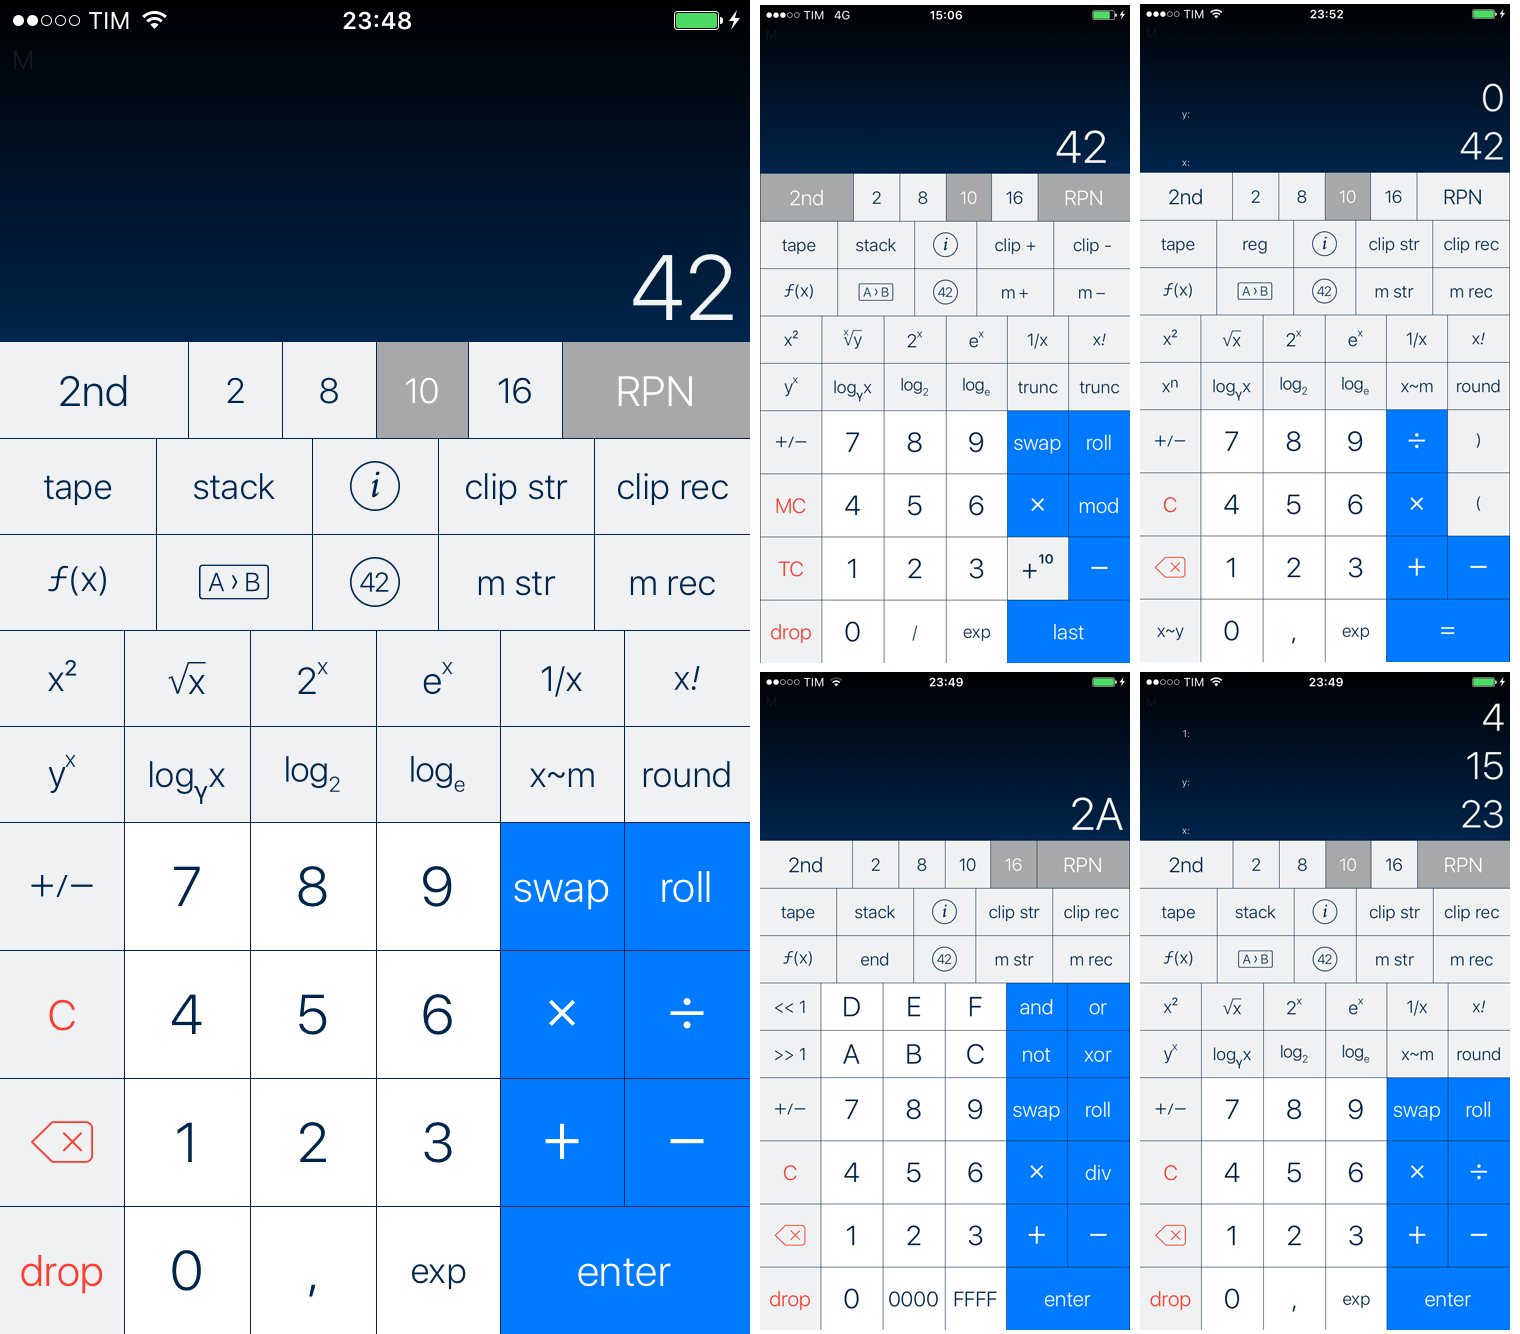
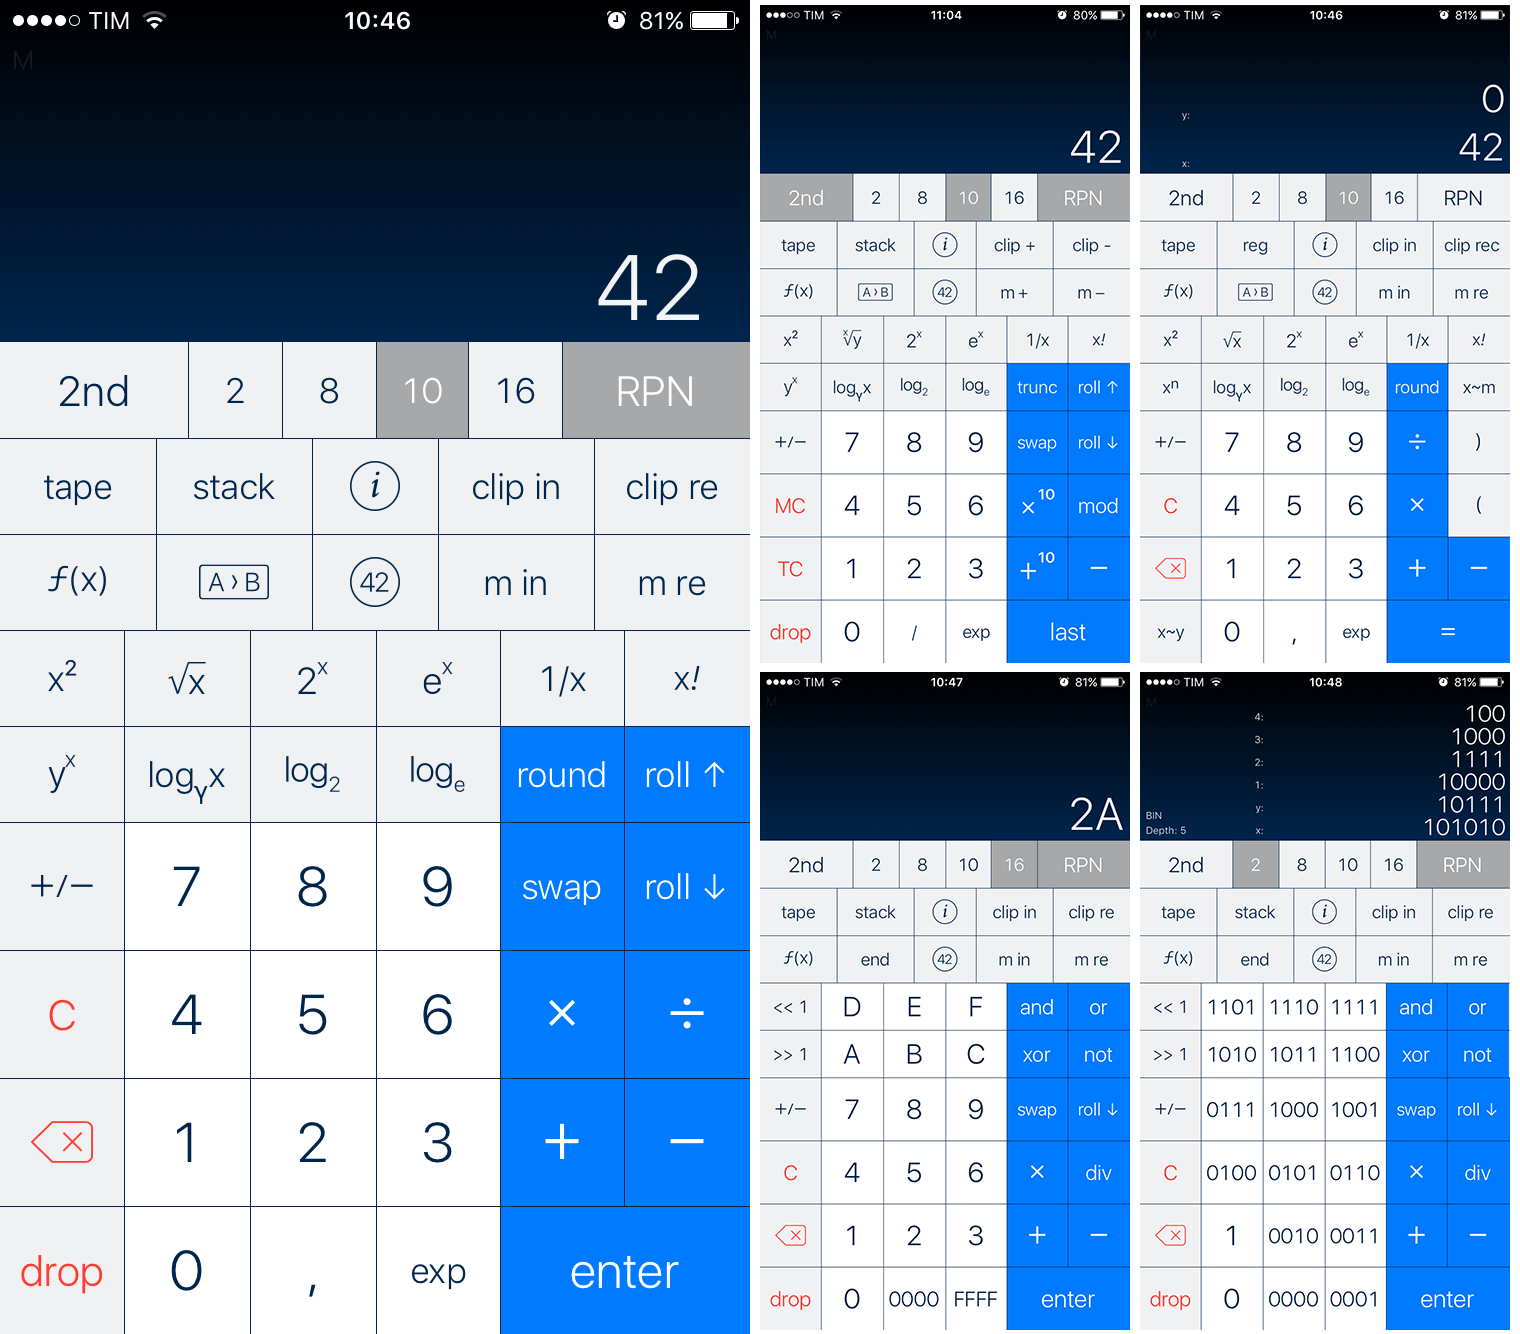
Update to 0.10
- changed some sizes and colours (Thanks to PCalc 3.6.1)
- fixed round and trunc
- added `roll up` key
- renamed clipboard and memory keys to use PCalc default naming
- added `×¹⁰` key and *Multiply 10 Times* function

diff --git a/README.md b/README.md
@@ -9,20 +9,17 @@ The Hybrid layout is based on a heavily changed built-in *Programming* layout. I
 - numbers, operations, `2nd` and `RPN` have bigger fonts
 - removed some operations I didn't need
 - renamed `bin`, `oct`, `dec` and `hex` to `2`, `8`, `10`, `16`
-- added buttons to manage the clipboard with the same behaviour as the memory
-- added a button `logᵧx`
-- added `+¹⁰` (See *Sum 10 times* function) at the place of `+` in 2nd mode
-- moved most buttons
+- added keys to manage the clipboard with the same behaviour as the memory
+- added a key `logᵧx`
+- added `+¹⁰` and `×¹⁰` (See *Sum 10 times* and *Multiply 10 times* functions) at the place of `+` and `×` in 2nd mode
 
 #### Issues
 
-- some buttons are duplicated, one visible only in RPN mode and the other in Algebraic mode due to some limitations in the layout editor (I could edit the layout manually, but...):
+- some keys are duplicated, one visible only in RPN mode and the other in Algebraic mode due to some limitations in the layout editor (I could edit the layout manually, but...):
   - `clip str` (RPN 1st, Alg 1st) / `clip +` (RPN 2nd, Alg 2nd)
   - `clip rec` (RPN 1st, Alg 1st) / `clip -` (RPN 2nd, Alg 2nd)
   - `logᵧx`: RPN and Algebraic use different functions
 - `logᵧx`: the *ᵧ* should be a *y*
-- no `trunc` button for Algebraic mode
-- the `trunc` button hides `x~m` in RPN 2nd mode
 - bad parenthesis and `÷` placement in Algebraic mode
 
 ## Functions
@@ -38,16 +35,17 @@ The Hybrid layout is based on a heavily changed built-in *Programming* layout. I
 - *Binomial Coefficient (y, x)*. Available only in RPN mode
 - *Logᵧx alg*
 - *Logᵧx rpn*
+- *Multiply 10 times*: it's like pressing `×` 10 times, it multiplies the first 11 values of the RPN stack. Available only in RPN mode.
 - *Random [0-100]*
 - *Random [x-y] alg*
 - *Random [x-y] rpn*
 - *Ratio*: solves equations *x:a=b:c* and *a:x=b:c*. Put a *0* instead of *x*. For example: *S2=a*, *S1=0*, *y=b*, *x=c*, then you can execute it. Available only in RPN mode
-- *Sum 10 times*: sums the first 11 values of the RPN stack. Available only in RPN mode.
+- *Sum 10 times*: it's like pressing `+` 10 times, it sums the first 11 values of the RPN stack. Available only in RPN mode.
 
 #### Issues and TODO
 - *Ratio* doesn't solve equations *a:b=x:c* and *a:b=c:x*
 - *Ratio* for Algebraic mode
-- make *Sum 10 times* work for any RPN stack depth (not possible with current PCalc commands)
+- make *Sum 10 times* and *Multiply 10 times* work for any RPN stack depth (not possible with current PCalc instructions)
 
 ## Instructions
 Just download and open the layout and the two function packages with PCalc.
@@ -60,7 +58,7 @@ Always use the latest version of each package unless you prefer an older layout.
 - Show Ticker Tape : OFF
 - Theme > Samurai
 - Digits > Thin
-- Display > Vertical Number of Lines : 4 or 7
+- Display > Vertical Number of Lines : 7
 - Smart Resize : ON
 - Accessibility > Use Dynamic Type : OFF
 - Accessibility > Large Key Text : OFF
@@ -69,6 +67,15 @@ Always use the latest version of each package unless you prefer an older layout.
 - Advanced Settings > Hide Status Bar : OFF
 
 ## Changelog
-**0.9.1:** Added *Binomial Coefficient (y, x)* function
-**0.9:** Added *Sum 10 times* function and button `+¹⁰`  
-**0.8:** Removed *Ratio* and rearranged the second and third row of the layout.
+**0.10:**
+- changed some sizes and colours (Thanks to PCalc 3.6.1)
+- fixed round and trunc
+- added `roll up` key
+- renamed clipboard and memory keys to use PCalc default naming
+- added `×¹⁰` key and *Multiply 10 Times* function
+**0.9.1:**
+- Added *Binomial Coefficient (y, x)* function
+**0.9:**
+- Added *Sum 10 times* function and button `+¹⁰`
+**0.8:**
+- Removed *Ratio* and rearranged the second and third row of the layout.
